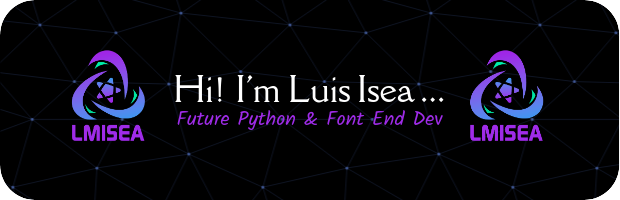
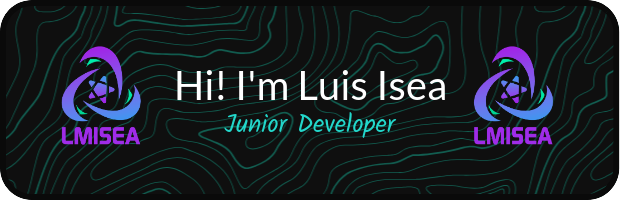
Updated header and formatted README.md

diff --git a/README.md b/README.md
@@ -2,10 +2,10 @@
   <img src="./lmisea-header.png" alt="Personal Github Header"/>
 </p>
 
-<p align="center"> 
+<p align="center">
   <a href="https://twitter.com/lm_isea" target="_blank">
-    <img src="https://img.shields.io/twitter/follow/lm_isea?color=00acee&logo=twitter&style=for-the-badge" alt="mi_after_luis"/>
-  </a> 
+    <img src="https://img.shields.io/badge/%40lm_isea-me?style=for-the-badge&logo=twitter&label=Follow&color=aqua" alt="mi_after_luis"/>
+  </a>
   <img src="https://komarev.com/ghpvc/?username=lmisea&style=for-the-badge&color=blueviolet" alt="Profile Views Counter">
   <a href="https://www.linkedin.com/in/luis-miguel-isea/" target="_blank">
     <img src="https://img.shields.io/badge/linkedin-%230077B5.svg?style=for-the-badge&logo=linkedin&logoColor=white" alt="LinkedIn Profile"/>
@@ -18,8 +18,10 @@
 ---
 
 ### :hammer_and_wrench: Languages and Tools
+
 <p align="center">
-  <img src="https://img.shields.io/badge/python-3670A0?style=for-the-badge&logo=python&logoColor=ffdd54" alt="Python"/> 
+  <img src="https://img.shields.io/badge/python-3670A0?style=for-the-badge&logo=python&logoColor=ffdd54" alt="Python"/>
+  <img src="https://img.shields.io/badge/Kotlin-ko?style=for-the-badge&logo=kotlin&color=%232A2726" alt="Kotlin" />
   <img src="https://img.shields.io/badge/c++-%2300599C.svg?style=for-the-badge&logo=c%2B%2B&logoColor=white" alt="C++"/>
   <img src="https://img.shields.io/badge/html5-%23E34F26.svg?style=for-the-badge&logo=html5&logoColor=white" alt="HTML"/>
   <img src="https://img.shields.io/badge/css3-%231572B6.svg?style=for-the-badge&logo=css3&logoColor=white" alt="CSS"/>
@@ -27,6 +29,7 @@
 </p>
 
 ### 📖📔 Currently Learning
+
 <p align="center">
   <img src="https://img.shields.io/badge/javascript-%23323330.svg?style=for-the-badge&logo=javascript&logoColor=%23F7DF1E" alt="JavaScript"/>
   <img src="https://img.shields.io/badge/typescript-%23007ACC.svg?style=for-the-badge&logo=typescript&logoColor=white" alt="TypeScript"/>
@@ -36,10 +39,11 @@
 ---
 
 ### 🥇 GitHub Stats
+
 <p align="center">
   <a href="https://git.io/streak-stats">
     <img src="https://streak-stats.demolab.com?user=lmisea&theme=black-ice"/>
-  </a> 
+  </a>
 </p>
 
 <p align="center">
@@ -49,7 +53,7 @@
 </p>
 
 <!---
-LuimiDev/LuimiDev is a ✨ special ✨ repository because its `README.md` (this file) appears on your GitHub profile.
+lmisea/lmisea is a ✨ special ✨ repository because its `README.md` (this file) appears on your GitHub profile.
 You can click the Preview link to take a look at your changes.
 https://github-readme-stats-delta-plum.vercel.app/
 --->
